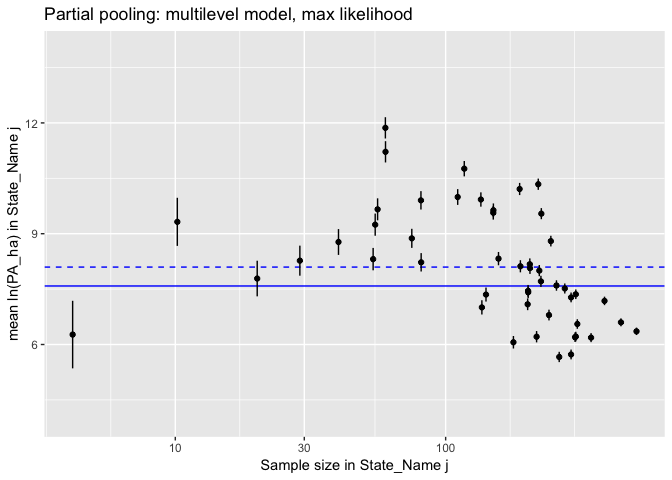
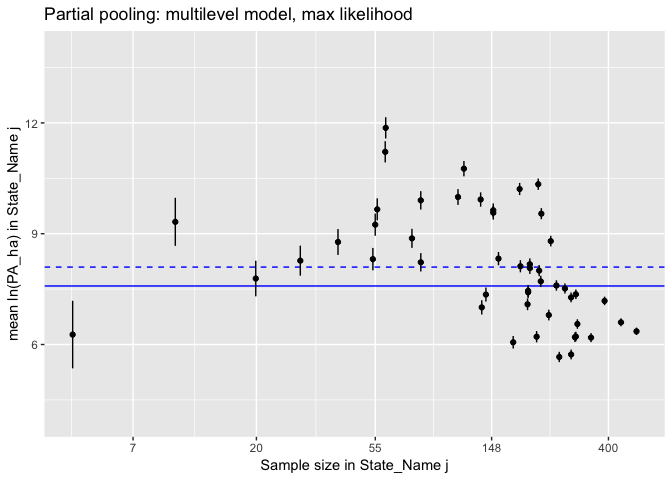
fixed axes

diff --git a/Individual_project/Conservation_glm.md b/Individual_project/Conservation_glm.md
@@ -1,7 +1,7 @@
 Conservation\_glm.R
 ================
 Amy
-Wed Oct 31 16:33:01 2018
+Wed Oct 31 18:13:37 2018
 
 ``` r
 library(ggplot2)
@@ -298,12 +298,12 @@ dat1 %>%
   ggplot() +
   geom_point(mapping = aes(x=PA_ha,col=Gap_Status,y=yjit),shape=1,alpha=0.5) +
   facet_wrap(facets = ~ State_Name) +
-  scale_x_continuous(breaks=c(0,20,40),limits=c(0,50)) +
+  scale_x_continuous(breaks=c(0,1000000,2000000),limits=c(0,3000000)) +
   theme(axis.text.y=element_blank(),axis.ticks.y=element_blank(),
         axis.title.y=element_blank(),panel.grid=element_blank())
 ```
 
-    ## Warning: Removed 8301 rows containing missing values (geom_point).
+    ## Warning: Removed 2 rows containing missing values (geom_point).
 
 ![](Conservation_glm_files/figure-gfm/unnamed-chunk-6-1.png)<!-- -->
 
@@ -615,13 +615,13 @@ print(lnPA_mean_var,n=Inf) #n=Inf to print all rows
     ##    State_Name           sample_size ST_mn ST_sd ST_se sample_size_jit
     ##    <fct>                      <int> <dbl> <dbl> <dbl>           <dbl>
     ##  1 Alabama                      201  7.08  1.92 0.135          201.  
-    ##  2 Arizona                       60 12.0   1.88 0.242           59.9 
+    ##  2 Arizona                       60 12.0   1.88 0.242           60.1 
     ##  3 Arkansas                     202  7.45  2.54 0.179          202.  
     ##  4 California                   220 10.4   2.05 0.138          220.  
     ##  5 Colorado                     226  9.56  2.42 0.161          226.  
-    ##  6 Connecticut                   29  8.28  2.00 0.371           28.9 
-    ##  7 Delaware                      10  9.59  2.44 0.771           10.2 
-    ##  8 District of Columbia           4  5.28  2.90 1.45             4.17
+    ##  6 Connecticut                   29  8.28  2.00 0.371           29.1 
+    ##  7 Delaware                      10  9.59  2.44 0.771           10.0 
+    ##  8 District of Columbia           4  5.28  2.90 1.45             4.19
     ##  9 Florida                      245  8.81  2.25 0.144          245.  
     ## 10 Georgia                      445  6.59  2.25 0.106          445.  
     ## 11 Idaho                        150  9.59  2.93 0.239          150.  
@@ -631,18 +631,18 @@ print(lnPA_mean_var,n=Inf) #n=Inf to print all rows
     ## 15 Kansas                       178  6.04  2.14 0.161          178.  
     ## 16 Kentucky                     303  6.20  2.07 0.119          303.  
     ## 17 Louisiana                    202  7.41  2.22 0.156          202.  
-    ## 18 Maine                         56  9.72  2.47 0.330           56.0 
-    ## 19 Maryland                      75  8.90  1.82 0.210           75.0 
-    ## 20 Massachusetts                 55  9.29  1.85 0.249           54.9 
+    ## 18 Maine                         56  9.72  2.47 0.330           55.9 
+    ## 19 Maryland                      75  8.90  1.82 0.210           75.1 
+    ## 20 Massachusetts                 55  9.29  1.85 0.249           55.0 
     ## 21 Michigan                     276  7.51  2.36 0.142          276.  
     ## 22 Minnesota                    291  7.27  2.76 0.162          291.  
     ## 23 Mississippi                  225  7.71  2.00 0.133          225.  
     ## 24 Missouri                     307  6.54  2.57 0.147          307.  
     ## 25 Montana                      188 10.2   2.35 0.171          188.  
     ## 26 Nebraska                     217  6.19  2.06 0.140          217.  
-    ## 27 Nevada                        60 11.3   2.64 0.340           59.9 
-    ## 28 New Hampshire                 40  8.81  1.99 0.314           40.1 
-    ## 29 New Jersey                    81  8.23  1.96 0.218           81.2 
+    ## 27 Nevada                        60 11.3   2.64 0.340           59.8 
+    ## 28 New Hampshire                 40  8.81  1.99 0.314           40.0 
+    ## 29 New Jersey                    81  8.23  1.96 0.218           81.0 
     ## 30 New Mexico                   117 10.8   2.14 0.198          117.  
     ## 31 New York                     205  8.07  2.08 0.145          205.  
     ## 32 North Carolina               303  7.36  2.35 0.135          303.  
@@ -651,7 +651,7 @@ print(lnPA_mean_var,n=Inf) #n=Inf to print all rows
     ## 35 Oklahoma                     205  8.17  2.03 0.142          205.  
     ## 36 Oregon                       135  9.96  2.32 0.200          135.  
     ## 37 Pennsylvania                 257  7.59  2.09 0.130          257.  
-    ## 38 Rhode Island                  20  7.75  2.56 0.572           20.1 
+    ## 38 Rhode Island                  20  7.75  2.56 0.572           19.9 
     ## 39 South Carolina               141  7.34  2.21 0.186          141.  
     ## 40 South Dakota                 189  8.12  2.32 0.169          189.  
     ## 41 Tennessee                    241  6.79  2.19 0.141          241.  
@@ -670,7 +670,7 @@ ggplot(data=lnPA_mean_var) +
   geom_hline(mapping=aes(yintercept=poolmean),data=cp_pred_df,col="blue") +
   geom_point(mapping=aes(x=sample_size_jit,y=ST_mn)) +
   geom_linerange(mapping=aes(x=sample_size_jit,ymin=ST_mn-ST_se,ymax=ST_mn+ST_se)) +
-  scale_x_continuous(trans="log",breaks=c(1,3,10,30,100)) +
+  scale_x_continuous(trans="log",breaks=c(7,20,55,148,400)) +
   labs(x="Sample size in State j",y="mean ln(PA hectares) in State j",
        title="No pooling: separate analyses by State")
 ```
@@ -737,7 +737,7 @@ plotONE <-
   geom_hline(mapping=aes(yintercept=poolmean),data=cp_pred_df,col="blue") +
   geom_point(mapping=aes(x=sample_size_jit,y=ST_mn)) +
   geom_linerange(mapping=aes(x=sample_size_jit,ymin=ST_mn-ST_se,ymax=ST_mn+ST_se)) +
-  scale_x_continuous(trans="log",breaks=c(1,3,10,30,100)) +
+  scale_x_continuous(trans="log",breaks=c(7,20,55,148,400)) +
   ylim(4,14) +
   labs(x="Sample size in State_Name j",y="mean ln(PA_ha) in State_Name j",
        title="No pooling: estimates from linear model fit")
@@ -832,7 +832,7 @@ plotTWO <-
   geom_hline(mapping=aes(yintercept=ovrl_mn),data=pp_mean_df,col="blue",lty=2) +
   geom_point(mapping=aes(x=sample_size_jit,y=ST_mn)) +
   geom_linerange(mapping=aes(x=sample_size_jit,ymin=ST_mn-ST_se,ymax=ST_mn+ST_se)) +
-  scale_x_continuous(trans="log",breaks=c(1,3,10,30,100)) +
+  scale_x_continuous(trans="log",breaks=c(7,20,55,148,400)) +
   ylim(4,14) +
   labs(x="Sample size in State_Name j",y="mean ln(PA_ha) in State_Name j",
        title="Partial pooling: multilevel model, max likelihood")
@@ -890,60 +890,60 @@ print(summary(ppfit_bayes)[,c(1,3,9,10)],digits=3)
 ```
 
     ##                                                     mean     sd n_eff Rhat
-    ## (Intercept)                                     8.10e+00 0.2346   103 1.06
-    ## b[(Intercept) State_Name:Alabama]              -1.01e+00 0.2835   139 1.05
-    ## b[(Intercept) State_Name:Arizona]               3.77e+00 0.3603   290 1.02
-    ## b[(Intercept) State_Name:Arkansas]             -6.50e-01 0.2813   164 1.04
-    ## b[(Intercept) State_Name:California]            2.24e+00 0.2782   147 1.04
-    ## b[(Intercept) State_Name:Colorado]              1.44e+00 0.2781   146 1.04
-    ## b[(Intercept) State_Name:Connecticut]           1.65e-01 0.4511   349 1.02
-    ## b[(Intercept) State_Name:Delaware]              1.24e+00 0.6805  1047 1.01
-    ## b[(Intercept) State_Name:District_of_Columbia] -1.83e+00 0.9489  1801 1.00
-    ## b[(Intercept) State_Name:Florida]               6.96e-01 0.2717   140 1.04
-    ## b[(Intercept) State_Name:Georgia]              -1.50e+00 0.2566   119 1.05
-    ## b[(Intercept) State_Name:Idaho]                 1.46e+00 0.2980   168 1.04
-    ## b[(Intercept) State_Name:Illinois]             -1.91e+00 0.2644   122 1.05
-    ## b[(Intercept) State_Name:Indiana]              -2.37e+00 0.2693   131 1.05
-    ## b[(Intercept) State_Name:Iowa]                 -2.44e+00 0.2731   135 1.05
-    ## b[(Intercept) State_Name:Kansas]               -2.04e+00 0.2873   149 1.04
-    ## b[(Intercept) State_Name:Kentucky]             -1.89e+00 0.2686   134 1.05
-    ## b[(Intercept) State_Name:Louisiana]            -6.86e-01 0.2799   142 1.04
-    ## b[(Intercept) State_Name:Maine]                 1.56e+00 0.3777   241 1.03
-    ## b[(Intercept) State_Name:Maryland]              7.62e-01 0.3430   208 1.03
-    ## b[(Intercept) State_Name:Massachusetts]         1.14e+00 0.3749   356 1.02
-    ## b[(Intercept) State_Name:Michigan]             -5.86e-01 0.2721   129 1.05
-    ## b[(Intercept) State_Name:Minnesota]            -8.27e-01 0.2680   132 1.05
-    ## b[(Intercept) State_Name:Mississippi]          -3.93e-01 0.2815   152 1.04
-    ## b[(Intercept) State_Name:Missouri]             -1.55e+00 0.2662   127 1.05
-    ## b[(Intercept) State_Name:Montana]               2.11e+00 0.2836   161 1.04
-    ## b[(Intercept) State_Name:Nebraska]             -1.89e+00 0.2785   143 1.04
-    ## b[(Intercept) State_Name:Nevada]                3.12e+00 0.3725   230 1.03
-    ## b[(Intercept) State_Name:New_Hampshire]         6.67e-01 0.4214   320 1.01
-    ## b[(Intercept) State_Name:New_Jersey]            1.22e-01 0.3388   229 1.03
-    ## b[(Intercept) State_Name:New_Mexico]            2.66e+00 0.3082   202 1.03
-    ## b[(Intercept) State_Name:New_York]             -3.37e-02 0.2783   153 1.04
-    ## b[(Intercept) State_Name:North_Carolina]       -7.43e-01 0.2669   130 1.05
-    ## b[(Intercept) State_Name:North_Dakota]          2.19e-01 0.2913   155 1.04
-    ## b[(Intercept) State_Name:Ohio]                 -1.90e+00 0.2672   128 1.05
-    ## b[(Intercept) State_Name:Oklahoma]              6.77e-02 0.2783   147 1.04
-    ## b[(Intercept) State_Name:Oregon]                1.82e+00 0.3035   184 1.03
-    ## b[(Intercept) State_Name:Pennsylvania]         -5.08e-01 0.2737   138 1.04
-    ## b[(Intercept) State_Name:Rhode_Island]         -3.48e-01 0.5261   577 1.01
-    ## b[(Intercept) State_Name:South_Carolina]       -7.52e-01 0.3007   170 1.04
-    ## b[(Intercept) State_Name:South_Dakota]          1.28e-02 0.2864   158 1.04
-    ## b[(Intercept) State_Name:Tennessee]            -1.31e+00 0.2744   142 1.04
-    ## b[(Intercept) State_Name:Texas]                -1.74e+00 0.2554   119 1.05
-    ## b[(Intercept) State_Name:Utah]                  1.89e+00 0.3169   192 1.03
-    ## b[(Intercept) State_Name:Vermont]               2.05e-01 0.3787   295 1.02
-    ## b[(Intercept) State_Name:Virginia]             -9.24e-01 0.2606   124 1.05
-    ## b[(Intercept) State_Name:Washington]            1.53e+00 0.2962   158 1.04
-    ## b[(Intercept) State_Name:West_Virginia]        -1.10e+00 0.3005   171 1.04
-    ## b[(Intercept) State_Name:Wisconsin]            -1.01e-01 0.2783   146 1.04
-    ## b[(Intercept) State_Name:Wyoming]               1.81e+00 0.3347   222 1.03
-    ## sigma                                           2.27e+00 0.0172  2779 1.00
-    ## Sigma[State_Name:(Intercept),(Intercept)]       2.53e+00 0.5430   306 1.01
-    ## mean_PPD                                        7.58e+00 0.0331  3411 1.00
-    ## log-posterior                                  -2.06e+04 7.0980   464 1.00
+    ## (Intercept)                                     8.11e+00 0.2557   126 1.06
+    ## b[(Intercept) State_Name:Alabama]              -1.02e+00 0.2992   171 1.05
+    ## b[(Intercept) State_Name:Arizona]               3.76e+00 0.3805   291 1.03
+    ## b[(Intercept) State_Name:Arkansas]             -6.54e-01 0.3016   165 1.05
+    ## b[(Intercept) State_Name:California]            2.23e+00 0.2951   159 1.05
+    ## b[(Intercept) State_Name:Colorado]              1.43e+00 0.2962   163 1.05
+    ## b[(Intercept) State_Name:Connecticut]           1.63e-01 0.4633   401 1.02
+    ## b[(Intercept) State_Name:Delaware]              1.23e+00 0.7027   996 1.01
+    ## b[(Intercept) State_Name:District_of_Columbia] -1.88e+00 0.9380  2288 1.00
+    ## b[(Intercept) State_Name:Florida]               6.92e-01 0.2896   161 1.05
+    ## b[(Intercept) State_Name:Georgia]              -1.51e+00 0.2782   148 1.06
+    ## b[(Intercept) State_Name:Idaho]                 1.46e+00 0.3173   200 1.04
+    ## b[(Intercept) State_Name:Illinois]             -1.92e+00 0.2826   153 1.05
+    ## b[(Intercept) State_Name:Indiana]              -2.38e+00 0.2862   157 1.05
+    ## b[(Intercept) State_Name:Iowa]                 -2.45e+00 0.2917   158 1.05
+    ## b[(Intercept) State_Name:Kansas]               -2.05e+00 0.3049   182 1.04
+    ## b[(Intercept) State_Name:Kentucky]             -1.89e+00 0.2885   153 1.05
+    ## b[(Intercept) State_Name:Louisiana]            -6.92e-01 0.3004   167 1.05
+    ## b[(Intercept) State_Name:Maine]                 1.56e+00 0.3833   282 1.02
+    ## b[(Intercept) State_Name:Maryland]              7.67e-01 0.3584   252 1.03
+    ## b[(Intercept) State_Name:Massachusetts]         1.14e+00 0.3834   300 1.02
+    ## b[(Intercept) State_Name:Michigan]             -5.94e-01 0.2866   152 1.05
+    ## b[(Intercept) State_Name:Minnesota]            -8.34e-01 0.2841   154 1.05
+    ## b[(Intercept) State_Name:Mississippi]          -3.99e-01 0.2951   160 1.05
+    ## b[(Intercept) State_Name:Missouri]             -1.55e+00 0.2857   155 1.05
+    ## b[(Intercept) State_Name:Montana]               2.10e+00 0.3005   171 1.05
+    ## b[(Intercept) State_Name:Nebraska]             -1.90e+00 0.2945   164 1.05
+    ## b[(Intercept) State_Name:Nevada]                3.11e+00 0.3791   274 1.03
+    ## b[(Intercept) State_Name:New_Hampshire]         6.60e-01 0.4195   316 1.03
+    ## b[(Intercept) State_Name:New_Jersey]            1.20e-01 0.3567   247 1.03
+    ## b[(Intercept) State_Name:New_Mexico]            2.65e+00 0.3283   203 1.04
+    ## b[(Intercept) State_Name:New_York]             -3.89e-02 0.3016   170 1.04
+    ## b[(Intercept) State_Name:North_Carolina]       -7.49e-01 0.2853   157 1.05
+    ## b[(Intercept) State_Name:North_Dakota]          2.14e-01 0.3123   177 1.04
+    ## b[(Intercept) State_Name:Ohio]                 -1.91e+00 0.2880   159 1.05
+    ## b[(Intercept) State_Name:Oklahoma]              6.46e-02 0.3018   170 1.05
+    ## b[(Intercept) State_Name:Oregon]                1.82e+00 0.3186   191 1.04
+    ## b[(Intercept) State_Name:Pennsylvania]         -5.10e-01 0.2913   165 1.04
+    ## b[(Intercept) State_Name:Rhode_Island]         -3.32e-01 0.5305   536 1.01
+    ## b[(Intercept) State_Name:South_Carolina]       -7.56e-01 0.3177   199 1.04
+    ## b[(Intercept) State_Name:South_Dakota]          8.00e-03 0.3081   174 1.04
+    ## b[(Intercept) State_Name:Tennessee]            -1.31e+00 0.2949   165 1.05
+    ## b[(Intercept) State_Name:Texas]                -1.75e+00 0.2733   142 1.05
+    ## b[(Intercept) State_Name:Utah]                  1.88e+00 0.3221   200 1.04
+    ## b[(Intercept) State_Name:Vermont]               2.06e-01 0.3861   304 1.02
+    ## b[(Intercept) State_Name:Virginia]             -9.29e-01 0.2791   149 1.05
+    ## b[(Intercept) State_Name:Washington]            1.53e+00 0.3159   189 1.04
+    ## b[(Intercept) State_Name:West_Virginia]        -1.11e+00 0.3151   197 1.04
+    ## b[(Intercept) State_Name:Wisconsin]            -1.08e-01 0.2918   159 1.05
+    ## b[(Intercept) State_Name:Wyoming]               1.80e+00 0.3483   223 1.03
+    ## sigma                                           2.27e+00 0.0167  2981 1.00
+    ## Sigma[State_Name:(Intercept),(Intercept)]       2.55e+00 0.5594   230 1.01
+    ## mean_PPD                                        7.58e+00 0.0336  4000 1.00
+    ## log-posterior                                  -2.06e+04 6.8928   351 1.01
 
 Diagnostics
 
@@ -966,7 +966,7 @@ names(samples)
 str(samples$alpha) #Samples of overall mean. Matrix: samples by row,  1 col, 4000 rows
 ```
 
-    ##  num [1:4000, 1] 8.36 8.13 8.19 8.13 7.91 ...
+    ##  num [1:4000, 1] 7.92 7.96 8.1 7.9 8.62 ...
     ##  - attr(*, "dimnames")=List of 2
     ##   ..$ iterations: NULL
     ##   ..$           : NULL
@@ -975,7 +975,7 @@ str(samples$alpha) #Samples of overall mean. Matrix: samples by row,  1 col, 400
 str(samples$b) #Samples of state deviations. Matrix: samples by row, 50 cols, 4000 rows
 ```
 
-    ##  num [1:4000, 1:50] -1.246 -0.739 -1.101 -0.808 -0.95 ...
+    ##  num [1:4000, 1:50] -0.838 -0.518 -0.996 -0.792 -1.542 ...
     ##  - attr(*, "dimnames")=List of 2
     ##   ..$ iterations: NULL
     ##   ..$           : NULL
@@ -1012,8 +1012,10 @@ plot_bayes <-
   geom_hline(mapping=aes(yintercept=ovrl_mn),data=ppbayes_mean_df,col="blue",lty=2) +
   geom_point(mapping=aes(x=sample_size_jit,y=ST_mn)) +
   geom_linerange(mapping=aes(x=sample_size_jit,ymin=ST_mn-ST_se,ymax=ST_mn+ST_se)) +
-  scale_x_continuous(trans="log",breaks=c(1,3,10,30,100)) +
+  scale_x_continuous(trans="log",breaks=c(7,20,55,148,400)) +
   ylim(4,14) +
+  annotate("text", label = paste(round(ppbayes_mean_df$ovrl_mn,digits=2), "ln(ha)"),x = 6.5, y = ppbayes_mean_df$ovrl_mn+0.3, size = 3.5, colour= "red")+
+  annotate("text", label = paste("e^8.11=",round(exp(ppbayes_mean_df$ovrl_mn),digits=2),"ha"),x = 7, y = ppbayes_mean_df$ovrl_mn-0.3, size = 3.5, colour= "darkgreen")+
   labs(x="Sample size in state j",y="mean ln(PA hectares) in state j",
        title="Partial pooling: multilevel model, Bayesian")
 grid.arrange(plotONE, plot_bayes, nrow = 1)
@@ -1022,6 +1024,7 @@ grid.arrange(plotONE, plot_bayes, nrow = 1)
 ![](Conservation_glm_files/figure-gfm/unnamed-chunk-36-1.png)<!-- -->
 
 ``` r
+#7.8
 plot_bayes
 ```
 
